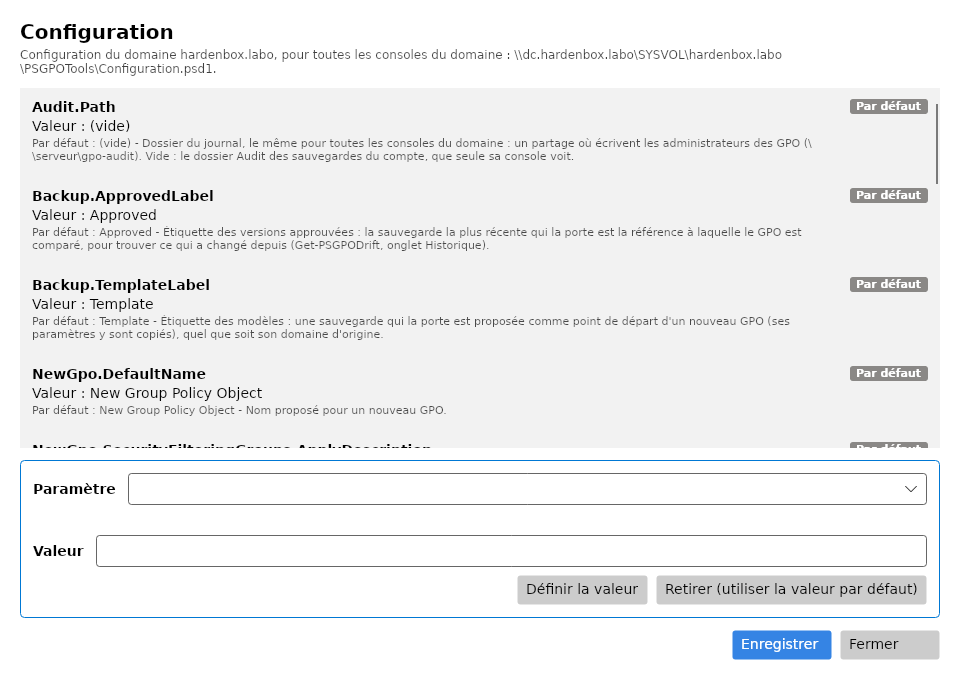
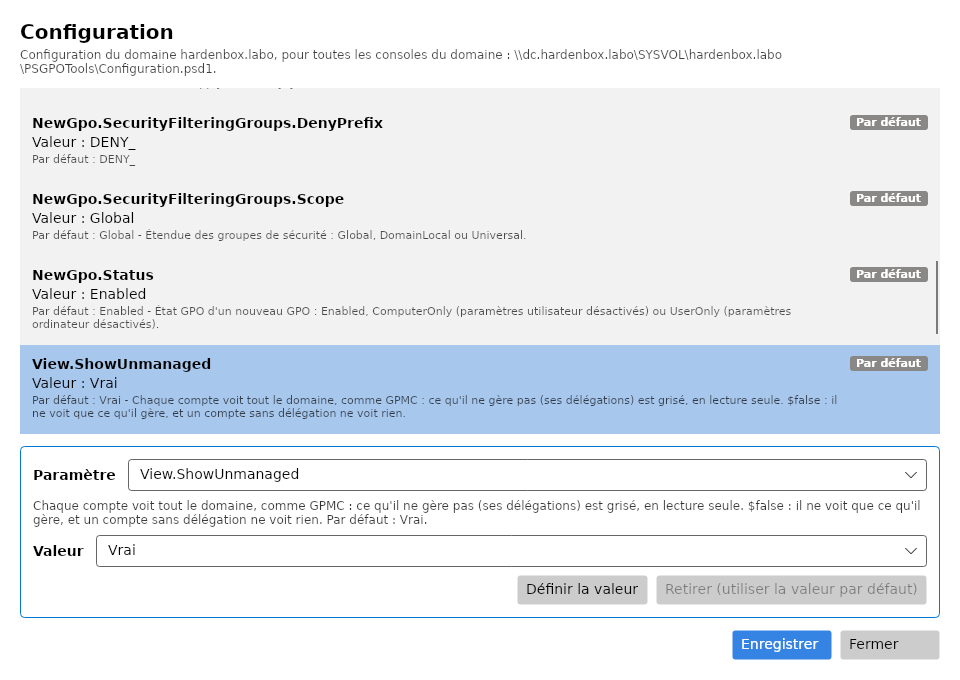
View.ShowUnmanaged in the configuration of the domain: $true (the default) shows every account the whole domain, what it does not manage greyed; $false shows each account only what it manages
An account without delegation then sees nothing. The console builds its tree again once the
Settings window saved the configuration. Checked on the Samba lab: the setting saved in SYSVOL by
Administrator, the console of TIERS1 reading it, the configuration put back as it was.

diff --git a/docs/fr/features/delegation.md b/docs/fr/features/delegation.md
@@ -51,6 +51,21 @@ grisé, et la barre d'état dit **(lecture seule)**. Les détails du domaine dis
 
 ![La console d'un compte sans délégation](../assets/screenshots/42-read-only-view.fr.png)
 
+## Ne montrer que ce que le compte gère
+
+Les administrateurs du domaine le choisissent dans la [configuration du domaine](configuration.md) :
+avec **`View.ShowUnmanaged`** à `$false` (**Paramètres**, ou `Configuration.psd1`), chaque compte ne
+voit que ce qu'il gère : les OU où il lie des GPO, **leurs parents grisés** comme chemin d'accès,
+sans leurs liens, et les GPO qu'il modifie ou qui sont liées à ses OU. Un compte sans délégation ne
+voit alors rien ; les détails du domaine et la barre d'état le disent. La valeur par défaut, `$true`,
+est la vue ci-dessus. La console reconstruit son arbre une fois le réglage enregistré.
+
+![Le technicien Tier 1, View.ShowUnmanaged à $false](../assets/screenshots/44-filtered-view.fr.png)
+
+```powershell
+@{ View = @{ ShowUnmanaged = $false } }
+```
+
 ## Les droits sont ceux du domaine
 
 La console ne décide jamais seule : une modification que le compte n'a pas le droit de faire est

diff --git a/docs/en/features/delegation.md b/docs/en/features/delegation.md
@@ -49,6 +49,21 @@ status bar says **(read only)**. The details of the domain say **Delegation: Non
 
 ![The console of an account without delegation](../assets/screenshots/42-read-only-view.png)
 
+## Show only what the account manages
+
+The administrators of the domain choose it in the [configuration of the domain](configuration.md):
+with **`View.ShowUnmanaged`** set to `$false` (**Settings**, or `Configuration.psd1`), each account
+sees only what it manages: the OUs where it links GPOs, **their parents greyed** as the path to
+them, without their links, and the GPOs it edits or that are linked to its OUs. An account without
+delegation then sees nothing; the details of the domain say so, and the status bar. The default,
+`$true`, is the view above. The console builds its tree again once the setting is saved.
+
+![The Tier 1 technician, View.ShowUnmanaged set to $false](../assets/screenshots/44-filtered-view.png)
+
+```powershell
+@{ View = @{ ShowUnmanaged = $false } }
+```
+
 ## The rights are those of the domain
 
 The console never decides alone: a change the account may not make is refused by the domain

diff --git a/docs/fr/reference/configuration.md b/docs/fr/reference/configuration.md
@@ -38,6 +38,12 @@ Une étiquette fait au plus 64 caractères, sans virgule, tabulation ni saut de 
 |---|---|---|
 | `Audit.Path` | vide | dossier du [journal d'audit](../features/backup-history.md#journal-daudit), le même pour toutes les consoles : un partage où écrivent les administrateurs des GPO (`\\serveur\gpo-audit`) ; vide : le dossier `Audit` des sauvegardes du compte |
 
+## View
+
+| Réglage | Par défaut | |
+|---|---|---|
+| `View.ShowUnmanaged` | `$true` | chaque compte voit tout le domaine, comme GPMC : ce qu'il ne gère pas est grisé, en lecture seule ; `$false` : il ne voit que ce qu'il gère, et un compte sans délégation ne voit rien ([délégation](../features/delegation.md)) |
+
 ## Workflow
 
 Le [workflow d'approbation](../workflows/approval.md).

diff --git a/docs/en/reference/configuration.md b/docs/en/reference/configuration.md
@@ -37,6 +37,12 @@ A label has at most 64 characters, without comma, tab or line break; the two lab
 |---|---|---|
 | `Audit.Path` | empty | folder of the [audit log](../features/backup-history.md#audit-log), the same for every console: a share the administrators of the GPOs write (`\\server\gpo-audit`); empty: the folder `Audit` of the backups of the account |
 
+## View
+
+| Setting | Default | |
+|---|---|---|
+| `View.ShowUnmanaged` | `$true` | every account sees the whole domain, as GPMC: what it does not manage is greyed, read only; `$false`: it sees only what it manages, and an account without delegation sees nothing ([delegation](../features/delegation.md)) |
+
 ## Workflow
 
 The [approval workflow](../workflows/approval.md).

diff --git a/CHANGELOG.md b/CHANGELOG.md
@@ -1,5 +1,11 @@
 # HGPM Release History
 
+## Unreleased
+
+### Added
+
+* `View.ShowUnmanaged` in the configuration of the domain: `$true` (the default) shows every account the whole domain, what it does not manage greyed; `$false` shows each account only what it manages (the OUs where it links GPOs with their parents as the path to them, the GPOs it edits or that are linked there), and an account without delegation sees nothing. The console builds its tree again once the Settings window saved it
+
 ## 0.1.7 - alpha
 
 ### Changed
